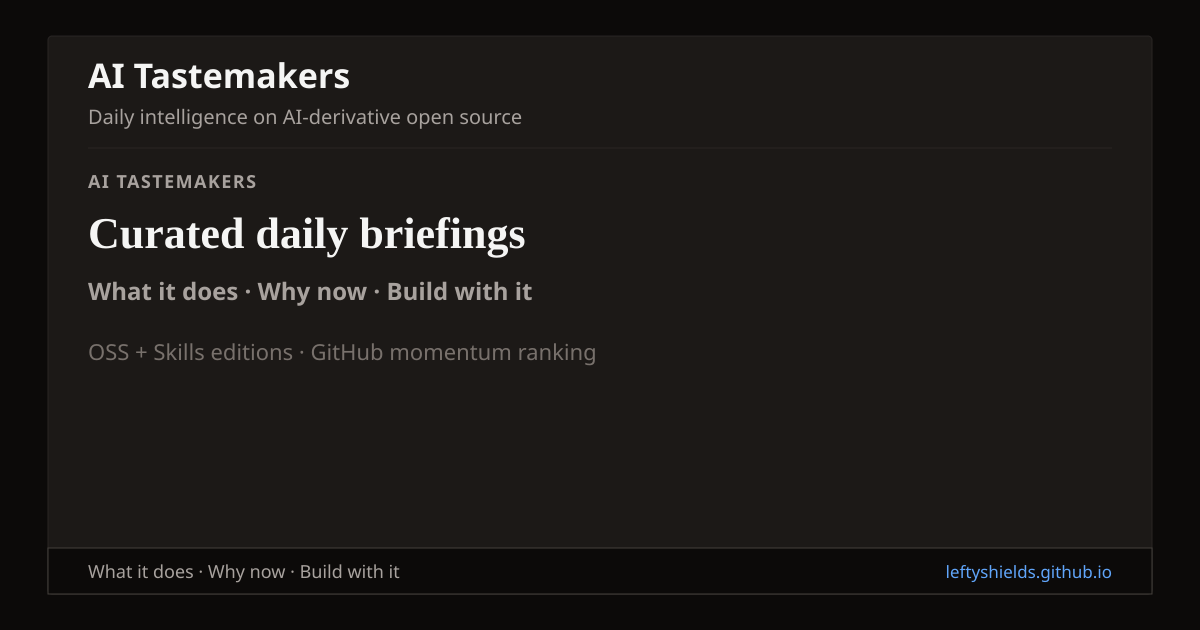
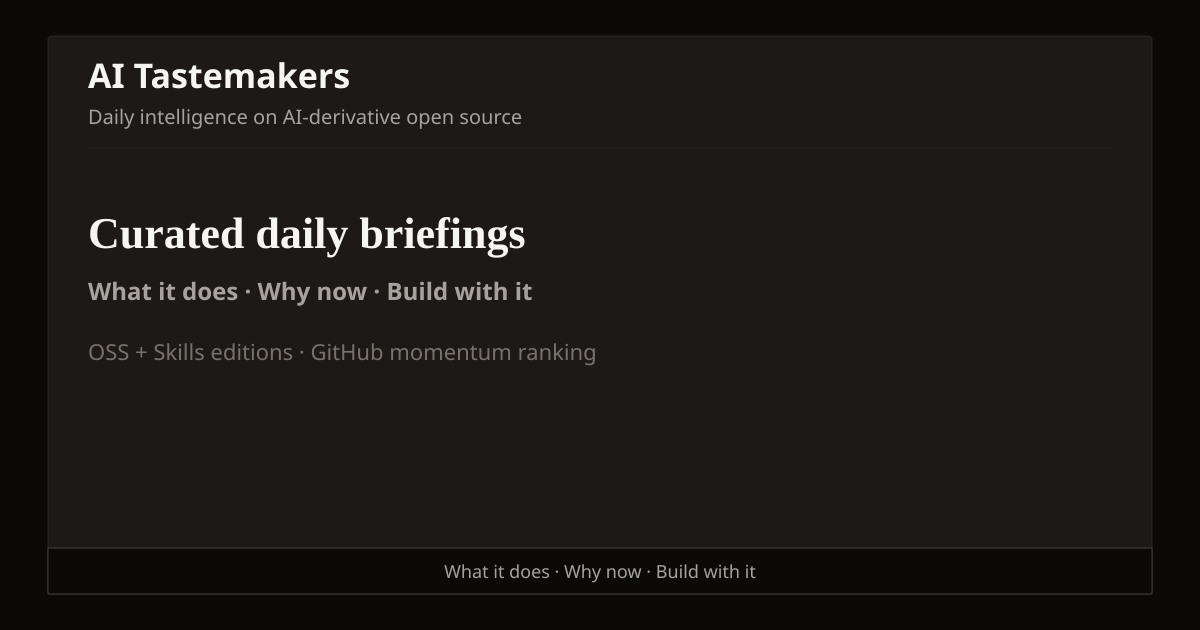
Split OG card content from link preview text to reduce redundancy.
Image carries date, edition, and top picks; og:title and og:description now use a short title and hook-only copy.

diff --git a/scripts/generate-brief-og.ts b/scripts/generate-brief-og.ts
@@ -51,17 +51,15 @@ function ogCardShell(inner: string): string {
 
 function siteHeaderBlock(editionName: string, tagline: string): string {
   return `
-  <text x="88" y="88" fill="${OG.text}" font-family="${OG.fontSans}" font-size="34" font-weight="700">AI Tastemakers</text>
+  <text x="88" y="88" fill="${OG.text}" font-family="${OG.fontSans}" font-size="34" font-weight="700">${escapeXml(editionName)}</text>
   <text x="88" y="124" fill="${OG.textMuted}" font-family="${OG.fontSans}" font-size="20">${escapeXml(tagline)}</text>
-  <line x1="88" y1="148" x2="1112" y2="148" stroke="${OG.border}" stroke-width="1"/>
-  <text x="88" y="188" fill="${OG.textMuted}" font-family="${OG.fontSans}" font-size="18" font-weight="600" letter-spacing="0.08em">${escapeXml(editionName.toUpperCase())}</text>`;
+  <line x1="88" y1="148" x2="1112" y2="148" stroke="${OG.border}" stroke-width="1"/>`;
 }
 
 function footerBlock(): string {
   return `
   <rect x="48" y="548" width="1104" height="46" fill="${OG.footerBg}" stroke="${OG.footerBorder}" stroke-width="1"/>
-  <text x="88" y="578" fill="${OG.textMuted}" font-family="${OG.fontSans}" font-size="18">What it does · Why now · Build with it</text>
-  <text x="1112" y="578" fill="${OG.accentLight}" font-family="${OG.fontSans}" font-size="17" text-anchor="end">leftyshields.github.io</text>`;
+  <text x="600" y="578" fill="${OG.textMuted}" font-family="${OG.fontSans}" font-size="18" text-anchor="middle">What it does · Why now · Build with it</text>`;
 }
 
 /** 1200×630 Open Graph card — dark theme matching GitHub Pages site. */
@@ -72,14 +70,13 @@ export function briefOgCardSvg(input: BriefOgCardInput): string {
     "Daily intelligence on AI-derivative open source — ranked by 7-day momentum.";
   const picks = input.repos.slice(0, 3).map((name) => name.split("/").pop() ?? name);
   const pickLines = picks.map((name, i) => {
-    const y = 348 + i * 58;
+    const y = 318 + i * 58;
     return `<text x="88" y="${y}" fill="${OG.text}" font-family="${OG.fontSans}" font-size="28" font-weight="600">${i + 1}. ${escapeXml(name)}</text>`;
   });
 
   const inner = `
   ${siteHeaderBlock(input.editionName, tagline)}
-  <text x="88" y="248" fill="${OG.text}" font-family="${OG.fontSerif}" font-size="44" font-weight="700">Daily Brief — ${escapeXml(dateLabel)}</text>
-  <text x="88" y="286" fill="${OG.textDim}" font-family="${OG.fontSans}" font-size="19">Top repos · builder-focused summaries</text>
+  <text x="88" y="208" fill="${OG.text}" font-family="${OG.fontSerif}" font-size="44" font-weight="700">Daily Brief — ${escapeXml(dateLabel)}</text>
   ${pickLines.join("\n  ")}
   ${footerBlock()}`;
 

diff --git a/scripts/seo-helpers.ts b/scripts/seo-helpers.ts
@@ -51,19 +51,39 @@ export function extractBriefSection(brief: string, label: string): string {
   return (nextIdx !== undefined ? after.slice(0, nextIdx) : after).replace(/\*\*/g, "").trim();
 }
 
+export function briefSocialTitle(date: string): string {
+  return `Daily Brief · ${formatBriefDateShort(date)}`;
+}
+
+/** Hook-only description — image card already shows date, edition, and repo picks. */
+export function briefSocialDescription(
+  repos: Array<{ brief?: string | null }>,
+): string {
+  const topBrief = repos[0]?.brief ?? "";
+  const whyNow = extractBriefSection(topBrief, "**Why now:**");
+  const whatItDoes = extractBriefSection(topBrief, "**What it does:**");
+  const hook =
+    whyNow ||
+    whatItDoes ||
+    "Curated GitHub repos ranked by 7-day momentum — builder-focused summaries.";
+  return hook.slice(0, 200);
+}
+
+/** @deprecated Use briefSocialTitle + briefSocialDescription for share previews. */
 export function briefOgTitle(
   editionName: string,
   date: string,
   repos: Array<{ full_name: string }>,
 ): string {
-  const dateShort = formatBriefDateShort(date);
-  const names = repos
-    .slice(0, 2)
-    .map((r) => r.full_name.split("/").pop() ?? r.full_name)
-    .join(", ");
-  const extra = repos.length > 2 ? ` +${repos.length - 2} more` : "";
-  const picks = names || "today's picks";
-  return `${dateShort} · ${picks}${extra} | ${editionName}`;
+  return briefSocialTitle(date);
+}
+
+export function briefMetaDescription(
+  _editionName: string,
+  _date: string,
+  repos: Array<{ full_name: string; brief?: string | null }>,
+): string {
+  return briefSocialDescription(repos);
 }
 
 export function buildSeoHeadHtml(
@@ -125,24 +145,6 @@ export function buildSeoHeadHtml(
   }
 
   return parts.join("\n  ");
-}
-
-export function briefMetaDescription(
-  editionName: string,
-  date: string,
-  topRepos: Array<{ full_name: string; brief?: string | null }>,
-): string {
-  const names = topRepos
-    .slice(0, 3)
-    .map((r) => r.full_name.split("/")[1] ?? r.full_name)
-    .join(", ");
-  const topBrief = topRepos[0]?.brief ?? "";
-  const whyNow = extractBriefSection(topBrief, "**Why now:**");
-  const hook =
-    whyNow ||
-    extractBriefSection(topBrief, "**What it does:**") ||
-    `Top AI repos ranked by 7-day momentum for ${date}.`;
-  return `${editionName} · ${formatBriefDateShort(date)}: ${names}. ${hook}`.slice(0, 300);
 }
 
 export function articleJsonLd(

diff --git a/scripts/seo-helpers.test.ts b/scripts/seo-helpers.test.ts
@@ -1,26 +1,35 @@
 import { describe, it, expect } from "vitest";
 import { briefOgCardSvg, defaultOgCardSvg } from "./generate-brief-og.js";
 import { OG } from "./og-theme.js";
-import { briefMetaDescription, briefOgTitle, extractBriefSection } from "./seo-helpers.js";
+import {
+  briefMetaDescription,
+  briefSocialDescription,
+  briefSocialTitle,
+  extractBriefSection,
+} from "./seo-helpers.js";
 
 describe("brief social metadata", () => {
-  it("uses Why now for description hook", () => {
-    const desc = briefMetaDescription("AI Tastemakers", "2026-08-01", [
+  it("uses Why now hook only — no repo list in description", () => {
+    const desc = briefSocialDescription([
       {
-        full_name: "acme/demo",
         brief:
           "**What it does:** A demo tool.\n\n**Why now:** Front page of HN after v2 launch drew 400 comments.\n\n**Build with it:** Wire into CI.",
       },
     ]);
     expect(desc).toContain("HN");
     expect(desc).not.toContain("What it does:");
+    expect(desc).not.toContain("ai-agent-book");
   });
 
-  it("formats og title with date and picks", () => {
-    const repos = Array.from({ length: 10 }, (_, i) => ({ full_name: `acme/repo${i}` }));
-    expect(briefOgTitle("AI Tastemakers", "2026-08-01", repos)).toBe(
-      "Aug 1 · repo0, repo1 +8 more | AI Tastemakers",
-    );
+  it("social title is date-only (picks live in og:image)", () => {
+    expect(briefSocialTitle("2026-08-01")).toBe("Daily Brief · Aug 1");
+  });
+
+  it("briefMetaDescription delegates to social description", () => {
+    const desc = briefMetaDescription("AI Tastemakers", "2026-08-01", [
+      { full_name: "acme/demo", brief: "**Why now:** Trending this week." },
+    ]);
+    expect(desc).toContain("Trending");
   });
 });
 
@@ -36,6 +45,7 @@ describe("OG card SVG (site dark theme)", () => {
     expect(svg).toContain("Georgia");
     expect(svg).toContain("Daily Brief");
     expect(svg).toContain("demo");
+    expect(svg).not.toContain("leftyshields.github.io");
   });
 
   it("default card includes brand header", () => {

diff --git a/scripts/edition-pages.ts b/scripts/edition-pages.ts
@@ -11,7 +11,8 @@ import { writeExperimentsData } from "./lab/aggregate-experiments.js";
 import {
   articleJsonLd,
   briefMetaDescription,
-  briefOgTitle,
+  briefSocialDescription,
+  briefSocialTitle,
   buildSeoHeadHtml,
   defaultOgImageUrl,
   type PageSeoOptions,
@@ -1345,8 +1346,9 @@ export async function buildEditionSite(
         const digest = JSON.parse(digestRaw) as {
           repos: Array<{ full_name: string; brief?: string | null }>;
         };
-        description = briefMetaDescription(edition.name, date, digest.repos);
-        pageTitle = briefOgTitle(edition.name, date, digest.repos);
+        description = briefSocialDescription(digest.repos);
+        const socialTitle = briefSocialTitle(date);
+        pageTitle = `Daily Brief — ${date} · ${edition.name}`;
         const ogImageRel = briefOgImagePath(edition.siteSegment, date);
         const ogImageAbs = `${siteBaseUrl.replace(/\/+$/, "")}/${ogImageRel}`;
         const ogOutPath = path.join(
@@ -1366,9 +1368,9 @@ export async function buildEditionSite(
           siteBaseUrl,
           canonicalPath,
           ogType: "article",
-          ogTitle: pageTitle,
+          ogTitle: socialTitle,
           ogImageUrl: ogImageAbs,
-          ogImageAlt: `${edition.name} daily brief for ${date}`,
+          ogImageAlt: `Top repo picks · ${date}`,
           jsonLd: articleJsonLd(
             siteBaseUrl,
             canonicalPath,
